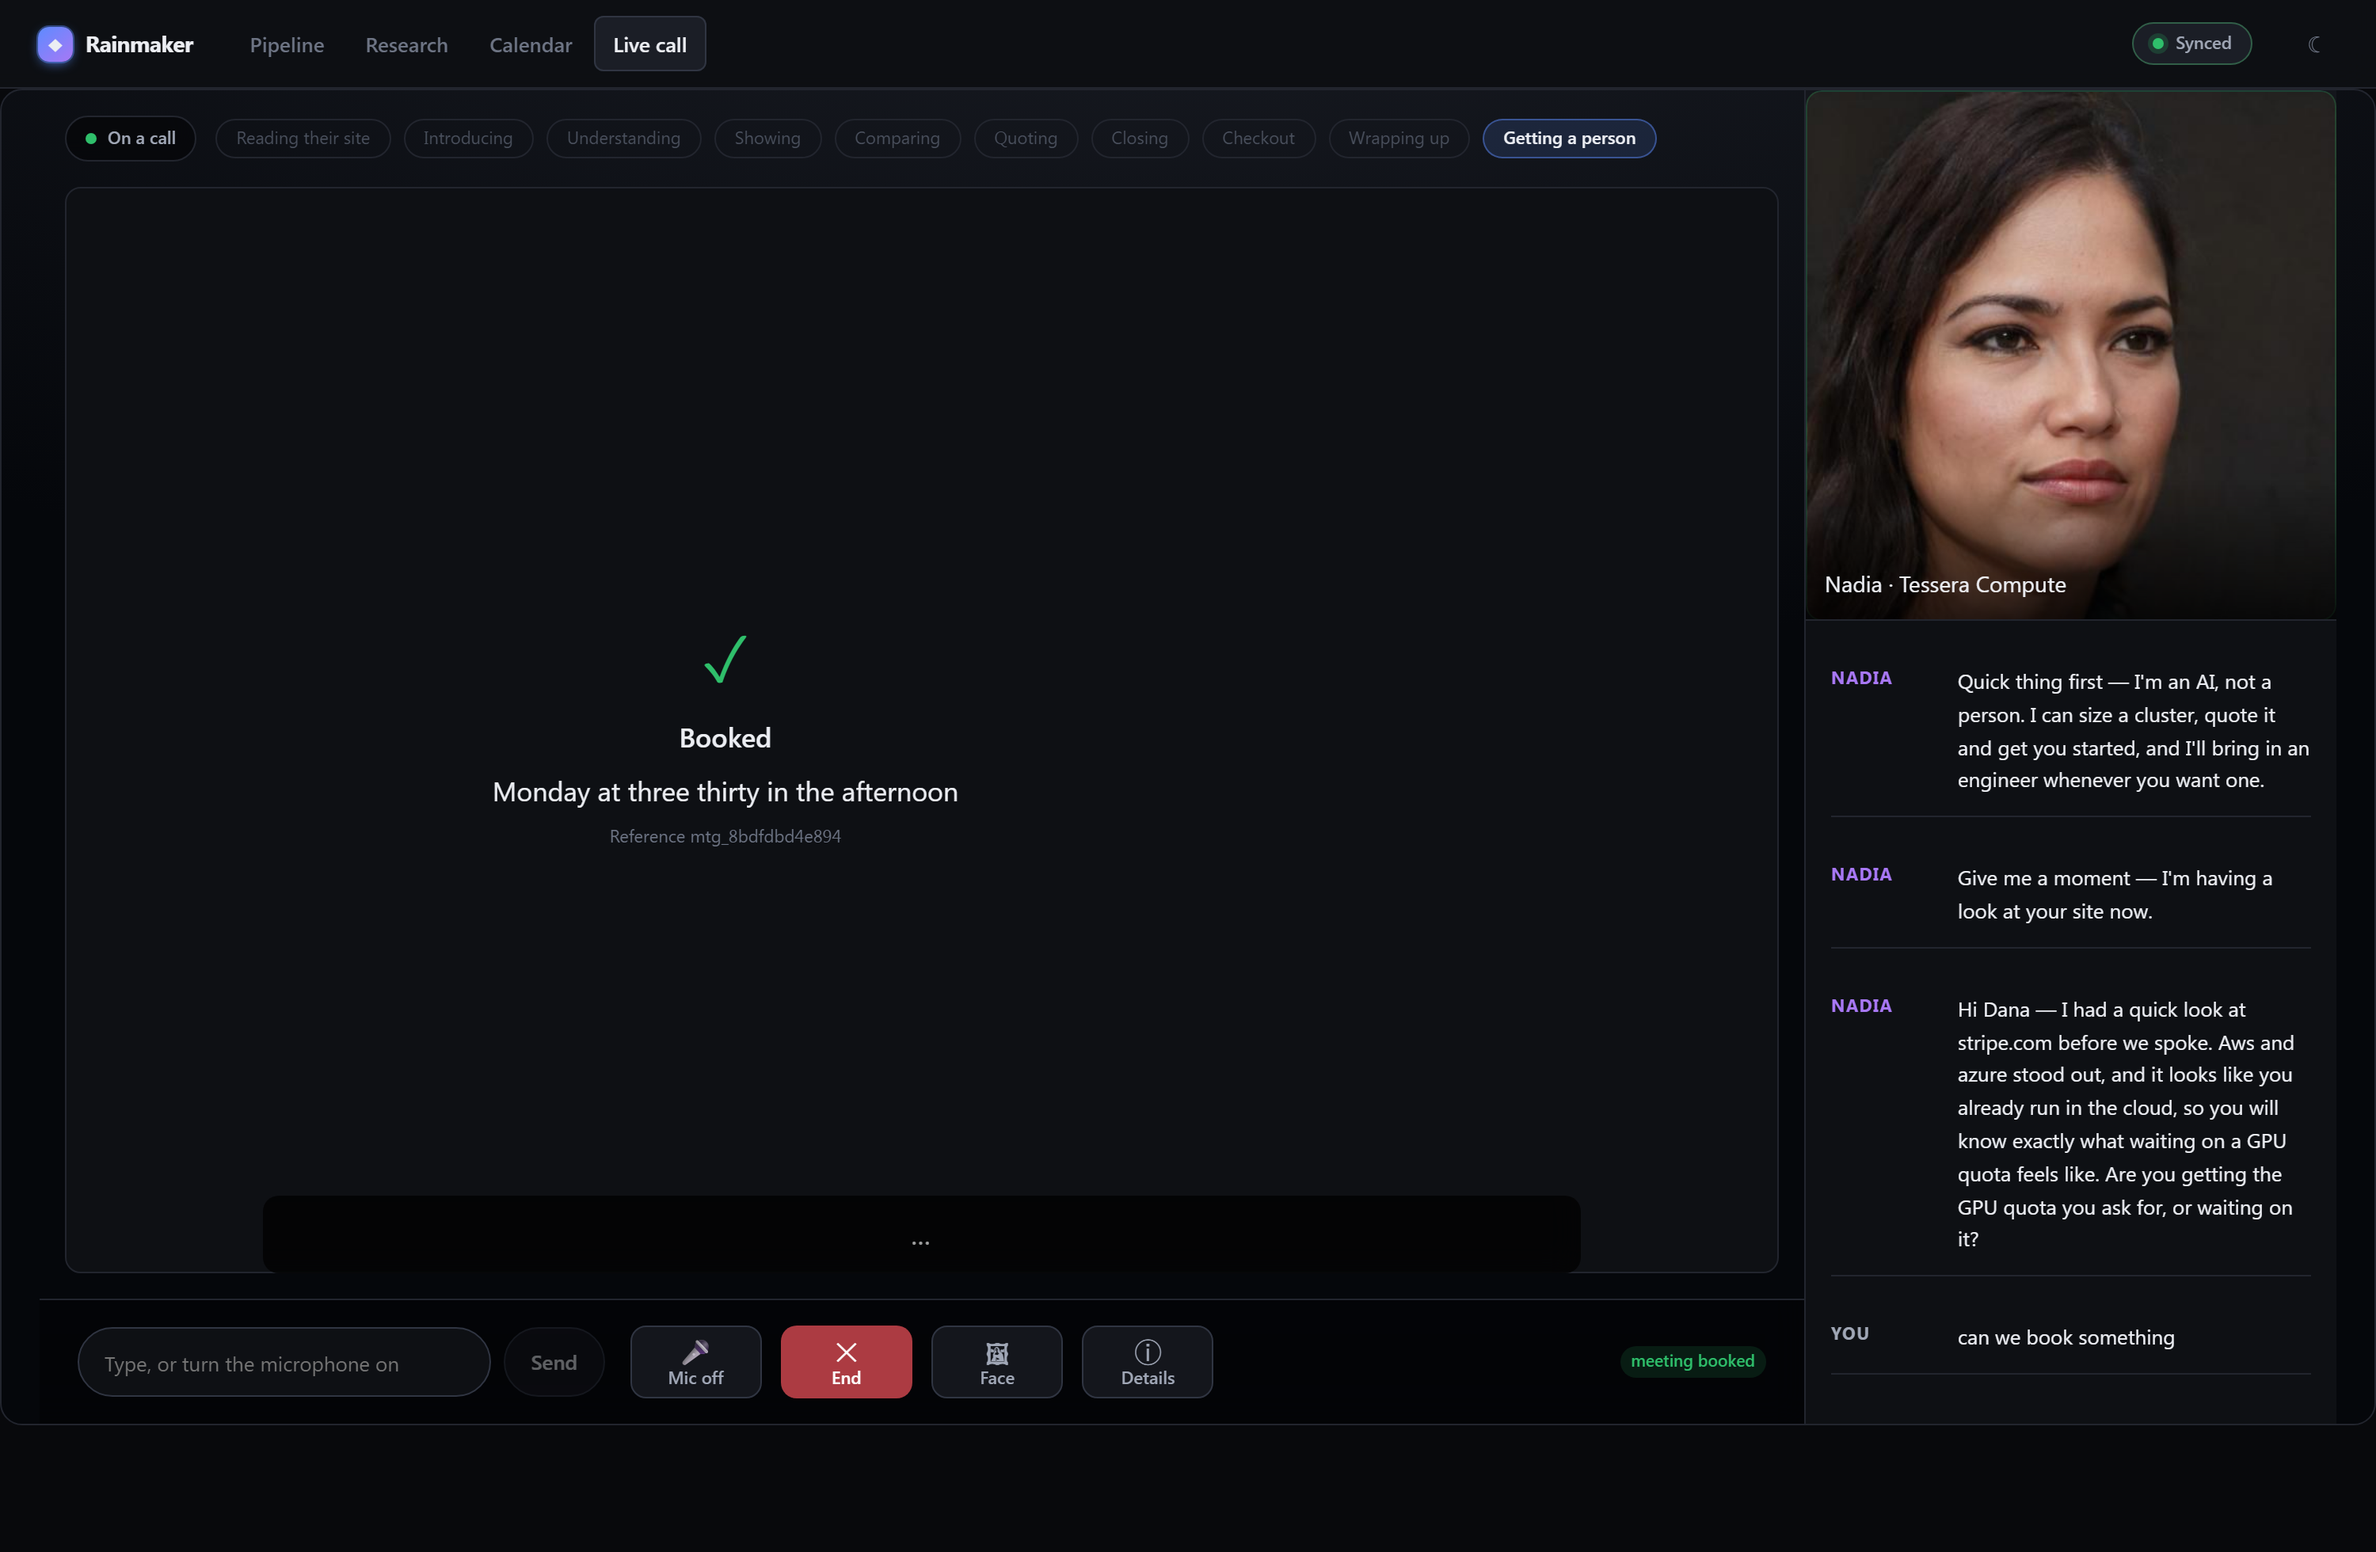
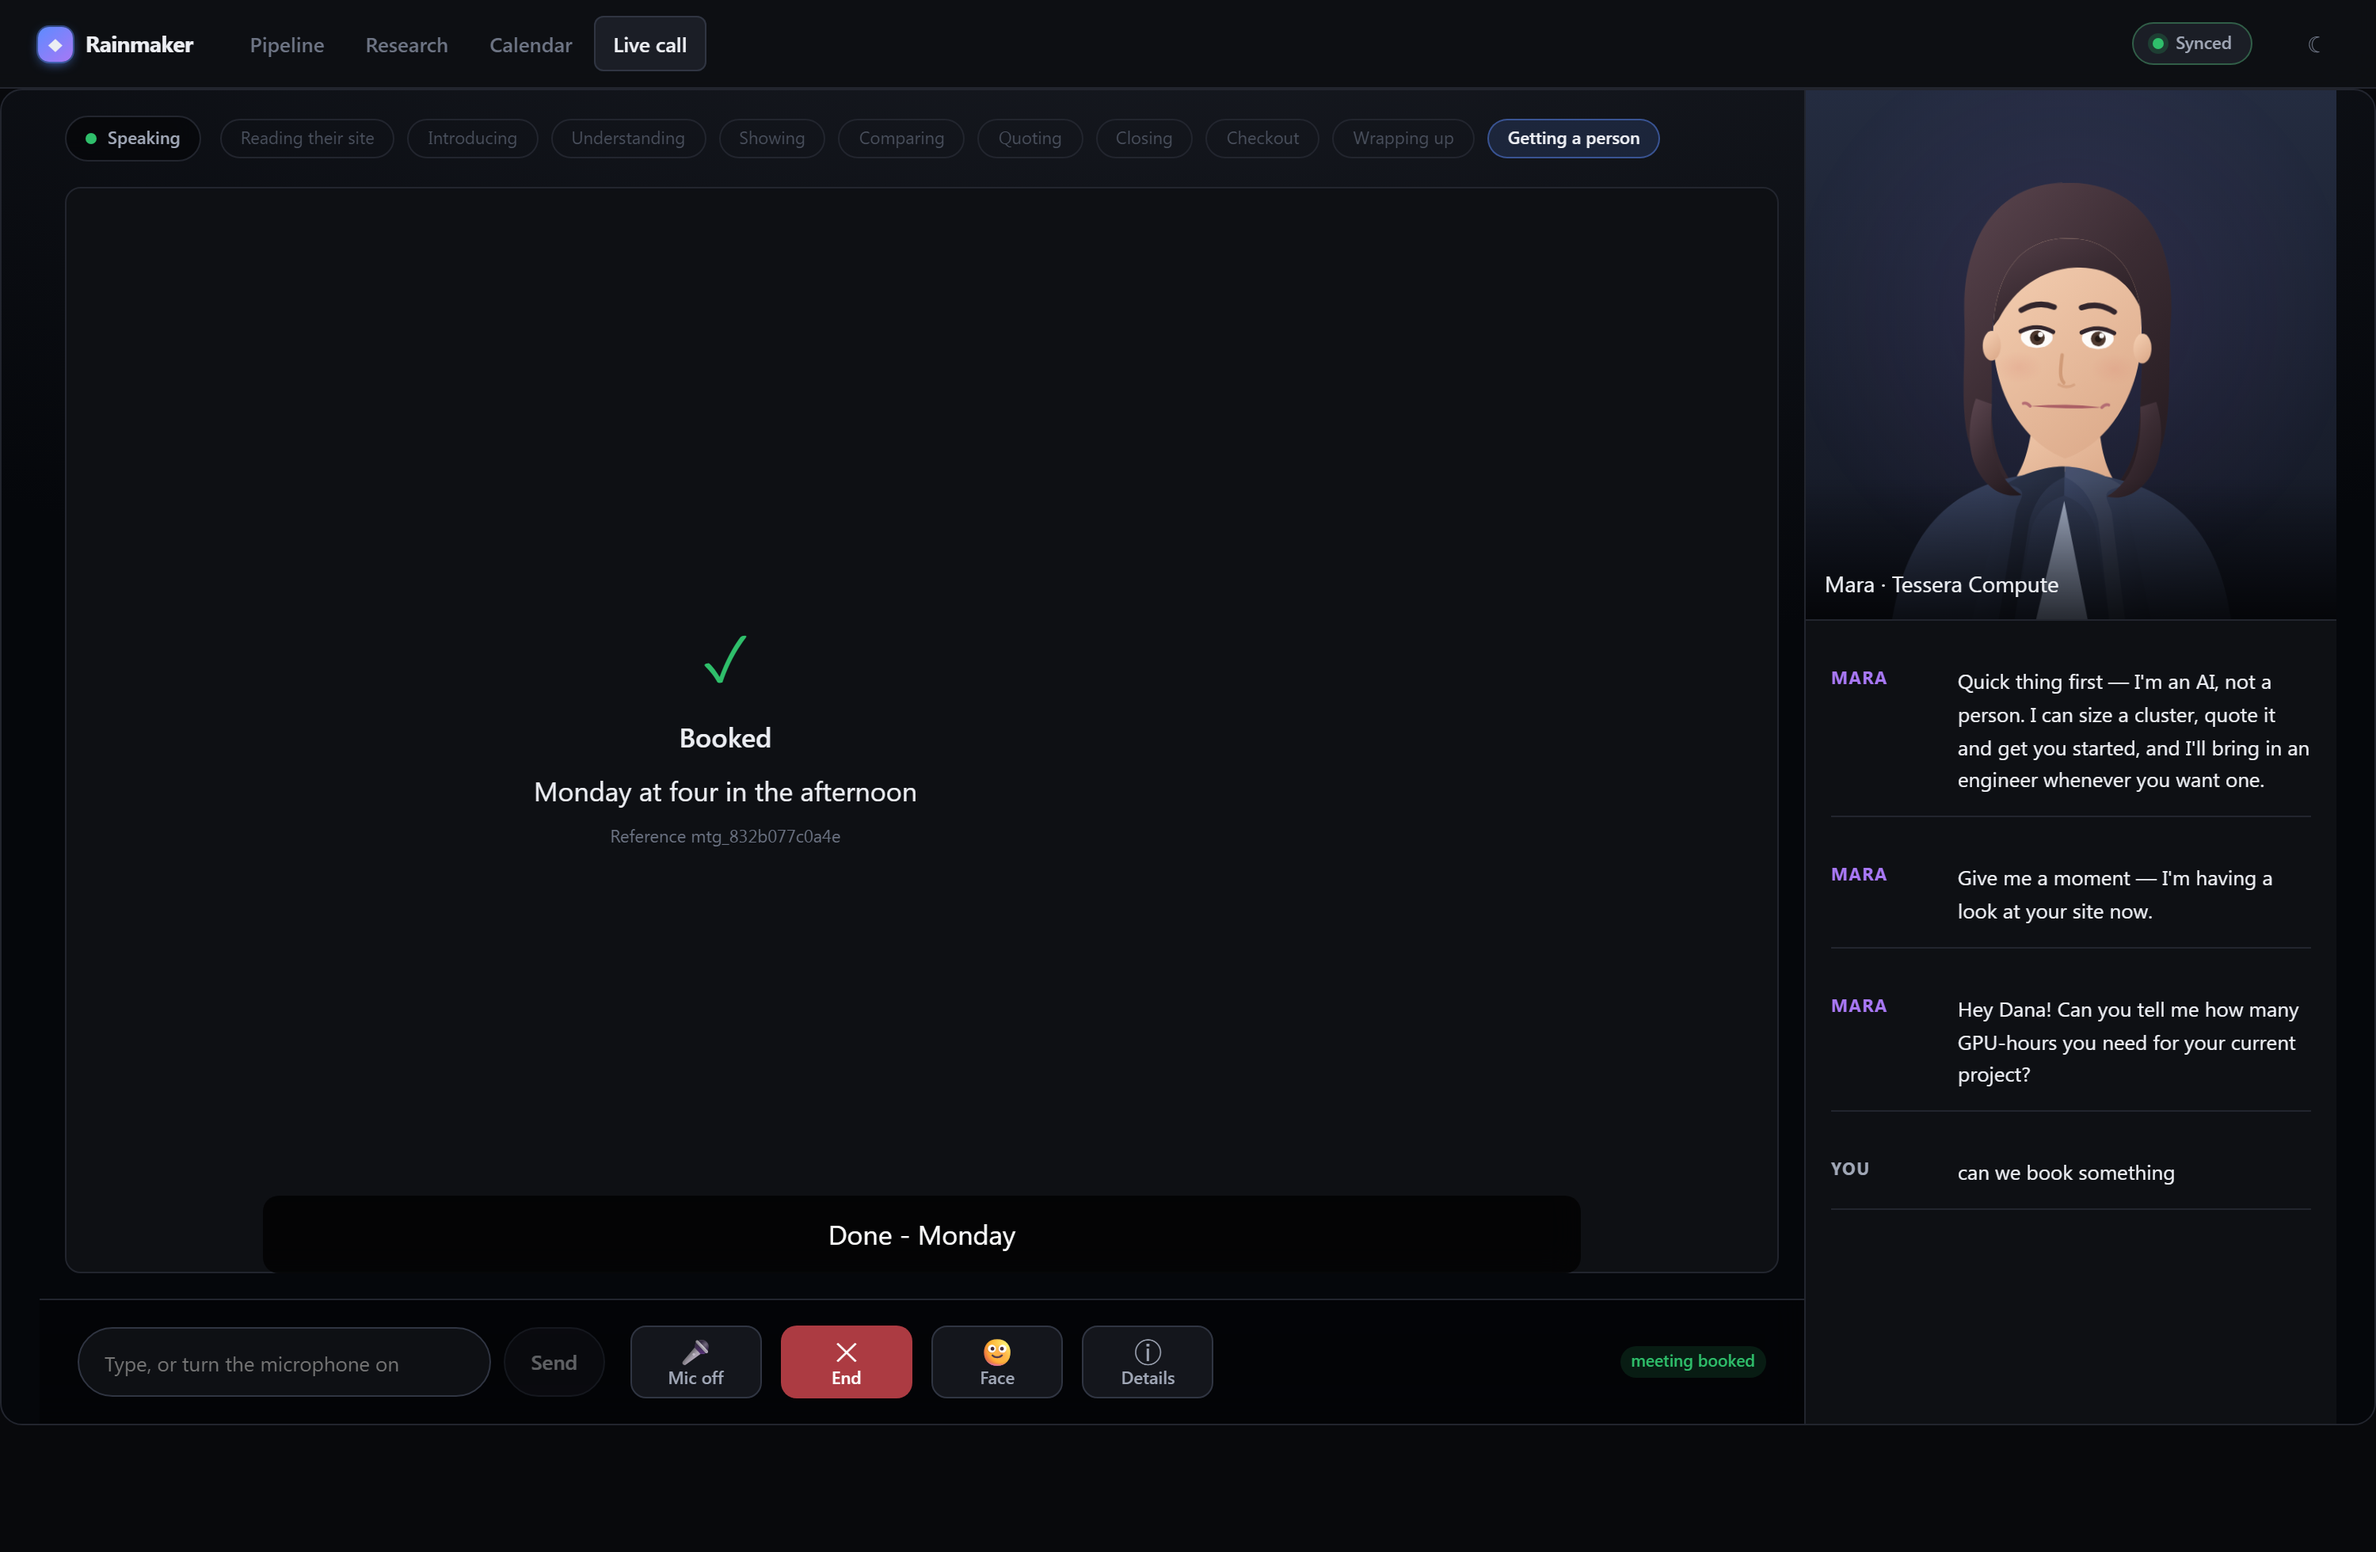
docs: open on the illustration, lead with the video, delete a figure that showed nothing
THE MOUTH STRIP HAD BEEN EVIDENCE OF NOTHING. `.rail-face, .meet-hero` is an OR-selector and
`meet-hero` is still a class on the idle placeholder, which sits earlier in the DOM than the
rail — so all five captures grabbed the empty "Nadia is on the call" panel. Five identical
frames of a blank box were sitting under the sentence "those are consecutive frames of one
sentence".

Deleted rather than re-shot, in both directions. Photoreal reinstates the face this project
keeps deciding not to lead with. From the illustration it evidences a weaker claim: its mouth
moves too little between frames to read as motion in stills, which was checked against the
recording rather than assumed. The Wav2Lip claim keeps what carries it — the numbers, and why
it is fast. The capture code goes with it, ~90 lines that had been producing a wrong picture.

THE CONSOLE NOW OPENS ON THE ILLUSTRATION. A photoreal face that is nearly right is worse than
a drawn one that is not trying to be: a few percent off on the jaw and the neck reads as a
broken product rather than as the limits of a 96x96 model. The photograph stays one click away,
and the README already claimed this — the code had it backwards.

THE VIDEO IS THE HERO. Five minutes of the product doing what the headline claims was the
second thing on the page, behind a still of the board. The board still leads its own section,
where the sentence beside it is about the board.
[…]

diff --git a/apps/console/src/components/CallView.tsx b/apps/console/src/components/CallView.tsx
@@ -79,15 +79,17 @@ export function CallView({ store }: { store: LocalStore }) {
   const [door, setDoor] = useState<FrontDoor | null>(null);
   // The telemetry drawer. Closed by default: on a call the thing worth looking at is the call.
   const [showSide, setShowSide] = useState(false);
-  // THE PHOTOGRAPH IS WHAT SHE LOOKS LIKE, so it is what a first-time viewer gets. The drawn
-  // rig opened the call for a while and it was the wrong way round: it is the fallback, it is
-  // the cheaper picture, and a reviewer who never touches the switch should not be shown the
-  // weaker of the two things this repository built. The choice, once made, is still theirs.
+  // THE ILLUSTRATION OPENS THE CALL. A photoreal face that is nearly right is worse than a
+  // drawn one that is not trying to be: the portrait sits a few percent off on the jaw and the
+  // neck, and a viewer reads that as something being wrong with the product rather than as a
+  // limitation of a 96x96 model. The drawn rig blinks, saccades, and moves its brows, so it
+  // reads as alive without ever asking to be believed as a person. The photoreal face is a
+  // click away and is where the lip-sync claim is actually demonstrated.
   const [face, setFace] = useState<FaceKind>(() => {
     try {
-      return localStorage.getItem("rainmaker.face") === "drawn" ? "drawn" : "photo";
+      return localStorage.getItem("rainmaker.face") === "photo" ? "photo" : "drawn";
     } catch {
-      return "photo";
+      return "drawn";
     }
   });
   useEffect(() => {

diff --git a/README.md b/README.md
@@ -12,21 +12,17 @@
 
 <br>
 
-<img src="docs/img/pipeline-dark.png" alt="Rainmaker pipeline board" width="100%">
+<a href="https://youtu.be/qE4K8IMcBew">
+<img src="docs/img/walkthrough-cover.png" alt="Watch it take a call: five minutes, one unedited take" width="100%">
+</a>
 
-</div>
+<br><br>
 
----
-
-## Watch it take a call
+### [Watch it take a call &nbsp;&#9654;](https://youtu.be/qE4K8IMcBew)
 
 Five minutes, one unedited take: it reads a buyer's site, drives its own product on screen,
-quotes $84,096 for 32 H100s, and books an engineer out of a real calendar.
+quotes **$84,096** for 32 H100s, and books an engineer out of a real calendar.
 
-<div align="center">
-<a href="https://youtu.be/qE4K8IMcBew">
-<img src="docs/img/walkthrough-cover.png" alt="Watch the walkthrough" width="100%">
-</a>
 </div>
 
 ---
@@ -44,10 +40,11 @@ checkout in front of you. If the deal genuinely needs a person, it books one out
 calendar. **Nobody is waiting in a queue behind it, because there is nobody behind it.**
 
 **That call is also the product.** Rainmaker sells the agent to other businesses, who configure
-their own and put it on their own website — so the console opens on Nadia, who sells the agent
-itself, and a buyer asking her how it works is watching it work. One command publishes a second
-tenant with nothing in common with us — GPUs by the hour, a rate card, a competitor and a site
-to walk you round — and the same ten steps run on both.
+their own and put it on their own website. One command publishes a tenant with nothing in common
+with us — GPUs by the hour, a rate card, a competitor and a site to walk you round — and the
+console opens on *theirs*, because ours is the weakest demo of the set: it sells the thing you
+are already looking at. Ours is one click away in the same picker, and a buyer asking her how
+Rainmaker works is watching Rainmaker work. The same ten steps run on both.
 
 | Part | What it does |
 |---|---|
@@ -487,12 +484,9 @@ shapes come from spelling, which is a poor guide to pronunciation, but its mouth
 measured amplitude of the audio actually playing — so the half a viewer notices is real. One
 button switches between them and the choice is remembered.
 
-<img src="docs/img/mouth.png" alt="Consecutive frames of an agent mid-sentence" width="100%">
-
-Those are consecutive frames of one sentence. Nothing is warped or interpolated; each mouth was
-generated for the audio playing at that instant.
-
-It is fast enough to sit inside a conversation for three reasons, none of them clever:
+Nothing is warped or interpolated: each mouth is generated for the audio playing at that
+instant, and it is fast enough to sit inside a conversation for three reasons, none of them
+clever:
 
 | | |
 |---|---|
